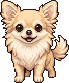
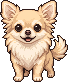
새 도트 강아지 다섯 더(슈나우저·프렌치불독·셸티·베들링턴·말티푸) + 초록 바탕 떼기 고침(투명 직접·갇힌 바탕), 먼저 다섯 다시 떼기
Claude-Session: https://claude.ai/code/session_01D364GF868k3HTded8WiX4b

diff --git a/walk-stars.js b/walk-stars.js
@@ -36,11 +36,16 @@
     jindo: { line: [[9, 59], [8, 32], [3, 6], [11, 1], [23, 14], [37, 14], [50, 1], [56, 1], [57, 18], [52, 32], [54, 53], [59, 59]], face: [[20, 31.5], [40, 31.5], [30.4, 43]] },
     knit: { close: true, line: [[25, 70], [20, 60], [7, 56], [4, 64], [0, 61], [0, 47], [5, 37], [0, 33], [13, 4], [19, 0], [26, 4], [36, 33]], face: [[11, 47], [20.5, 50], [14, 52]] },
     // 11/27 새 견종 — _dev/constellation-points.py
-    spitz: { line: [[2,47],[0,35],[5,19],[8,13],[8,5],[14,0],[24,9],[32,9],[42,0],[46,2],[52,27],[52,47]], face: [[19.8,25.6],[36.3,25.6],[27.5,33]] },
-    cocker: { line: [[34,65],[31,57],[33,45],[40,36],[46,16],[68,0],[83,0],[102,13],[111,36],[118,45],[120,57],[117,65]], face: [[64.2,23.9],[86.9,23.9],[75.3,32]] },
-    chihuahua_long: { line: [[7,49],[6,33],[0,14],[1,2],[10,1],[23,9],[35,9],[51,0],[57,2],[57,21],[49,34],[49,49]], face: [[19.1,27.5],[38,27.5],[28.3,32.7]] },
+    spitz: { line: [[1,47],[1,25],[7,13],[9,2],[13,0],[23,9],[31,9],[41,0],[45,2],[49,21],[52,24],[52,47]], face: [[18.8,25.6],[35.3,25.6],[27,33]] },
+    cocker: { line: [[34,65],[33,45],[40,36],[46,16],[60,4],[68,0],[83,0],[102,13],[111,36],[118,45],[120,57],[117,65]], face: [[64.2,23.9],[86.9,23.9],[75.3,32]] },
+    chihuahua_long: { line: [[7,49],[6,33],[0,14],[1,2],[7,0],[22,9],[34,9],[50,0],[56,2],[54,28],[49,34],[49,49]], face: [[18.1,27.5],[37,27.5],[27.5,32.7]] },
     bichon: { line: [[14,51],[16,45],[1,36],[0,28],[14,8],[26,0],[42,1],[63,22],[66,34],[62,39],[52,39],[51,51]], face: [[24.2,27.4],[41.9,27.4],[33,33]] },
-    golden: { line: [[45,55],[49,41],[39,24],[40,19],[53,4],[65,0],[82,0],[94,4],[108,21],[106,28],[98,41],[102,55]], face: [[63.2,19.6],[83.8,19.6],[73,30]] }
+    golden: { line: [[45,55],[49,41],[39,24],[40,19],[53,4],[65,0],[82,0],[94,4],[108,21],[106,28],[98,41],[102,55]], face: [[63.2,19.6],[83.8,19.6],[73,30]] },
+    schnauzer: { line: [[11,45],[13,39],[0,9],[13,0],[36,4],[44,0],[57,9],[50,24],[45,27],[47,34],[44,39],[49,45]], face: [[19.1,20.1],[37.8,20.1],[28.5,28]] },
+    frenchie: { line: [[5,49],[7,27],[2,22],[0,5],[7,0],[17,13],[31,13],[41,0],[47,3],[46,22],[41,27],[43,49]], face: [[13,27.5],[35,27.5],[24.5,31.5]] },
+    sheltie: { line: [[39,57],[40,36],[49,21],[46,4],[60,0],[73,8],[87,0],[98,4],[96,21],[104,36],[107,46],[106,57]], face: [[64.7,26.9],[80.2,26.8],[72.5,42.3]] },
+    bedlington: { line: [[27,69],[16,61],[22,48],[16,34],[29,19],[30,9],[42,0],[64,9],[77,32],[72,52],[78,61],[67,69]], face: [[36.4,30.6],[57.6,30.6],[45.4,50.5]] },
+    maltipoo: { line: [[13,45],[14,36],[8,39],[0,30],[6,16],[19,3],[33,0],[43,3],[56,16],[62,30],[50,35],[49,45]], face: [[22.7,24.4],[39.4,24.4],[31,32.1]] }
   };
   var TOD = [
     { name: '아침', c: [255, 226, 150], from: 5, to: 11 }, { name: '낮', c: [255, 255, 255], from: 11, to: 17 },
@@ -95,7 +100,7 @@
       full: n >= GOAL, milky: n >= MILKY, allDays: n >= dim, moon: Math.min(1, n / dim), dayCapped: false };
   }
   // ── 1년 하늘 + 공유 링크 글자 ──
-  var DOG_IDS = ['pom', 'poodle', 'maltese', 'chihuahua', 'dachs', 'jindo', 'shiba', 'knit', 'spitz', 'cocker', 'chihuahua_long', 'bichon', 'golden'];   // 링크에 번호로 실린다 — 순서 바꾸지 말 것(새 것은 뒤에)
+  var DOG_IDS = ['pom', 'poodle', 'maltese', 'chihuahua', 'dachs', 'jindo', 'shiba', 'knit', 'spitz', 'cocker', 'chihuahua_long', 'bichon', 'golden', 'schnauzer', 'frenchie', 'sheltie', 'bedlington', 'maltipoo'];   // 링크에 번호로 실린다 — 순서 바꾸지 말 것(새 것은 뒤에)
   var SIZE_MIN = [10, 22, 37, 60], TOD_H = [8, 13, 18, 21];   // 크기 4단계·시간대 4가지 → 그리기용 분·시
   function sizeIdx(min) { return min < 15 ? 0 : min < 30 ? 1 : min < 45 ? 2 : 3; }
   function todIdx(h) { var t = todOf(h); return TOD.indexOf(t); }

diff --git a/azit-room.js b/azit-room.js
@@ -28,11 +28,17 @@
     { id: 'cocker',         breed: '코카스파니엘', fur: '#d9a868', sizes: 'm' },
     { id: 'chihuahua_long', breed: '장모 치와와',  fur: '#ecd3a8', sizes: 's' },
     { id: 'bichon',         breed: '비숑',         fur: '#f3f0ea', sizes: 's' },
-    { id: 'golden',         breed: '골든 리트리버', fur: '#e2b45c', sizes: 'l' }
+    { id: 'golden',         breed: '골든 리트리버', fur: '#e2b45c', sizes: 'l' },
+    { id: 'schnauzer',      breed: '슈나우저',     fur: '#8a8a8c', sizes: 'sm' },
+    { id: 'frenchie',       breed: '프렌치불독',   fur: '#e3c497', sizes: 'sm' },
+    { id: 'sheltie',        breed: '셔틀랜드 쉽독', fur: '#c8762e', sizes: 'm' },
+    { id: 'bedlington',     breed: '베들링턴 테리어', fur: '#d4dbe2', sizes: 'm' },
+    { id: 'maltipoo',       breed: '말티푸',       fur: '#f2ece0', sizes: 's' }
   ];
   // 프로필 견종 글자 → 도트 강아지(처음 한 번 — 아지트에서 언제든 바꿀 수 있다). 위에서부터 먼저 맞는 것
   var BREED_RULES = [
-    [/말티푸|maltipoo/i, 'poodle'], [/포메|pomeranian/i, 'pom'], [/푸들|poodle/i, 'poodle'],
+    [/말티푸|maltipoo/i, 'maltipoo'], [/슈나우저|schnauzer/i, 'schnauzer'], [/프렌치|프불|french|불독|bulldog/i, 'frenchie'],
+    [/셸티|쉘티|셔틀랜드|sheltie|shetland|콜리|collie/i, 'sheltie'], [/베들링턴|bedlington/i, 'bedlington'], [/포메|pomeranian/i, 'pom'], [/푸들|poodle/i, 'poodle'],
     [/비숑|bichon/i, 'bichon'], [/스피츠|spitz|사모예드|samoyed/i, 'spitz'], [/코카|cocker|스패?니엘|spaniel/i, 'cocker'],
     [/골든|golden|리트리버|retriever|래브라도|labrador/i, 'golden'],
     [/(장모|롱코트|long).*(치와와|chihuahua)|(치와와|chihuahua).*(장모|롱코트|long)/i, 'chihuahua_long'],
@@ -600,7 +606,7 @@
     guessDog: guessDog, dogFromBreed: dogFromBreed, myDog: myDog,
     loadState: loadState, saveState: saveState, unlockedItems: unlockedItems, hasItem: hasItem, isLive: isLive, placedItems: placedItems, accOn: accOn,
     snapshot: snapshot, mySnapshot: mySnapshot, parseRoom: parseRoom, todayKey: todayKey,
-    dogSrc: function (id) { return 'icons/dot-dogs/' + id + '.webp?v=5'; },
-    dogPxSrc: function (id) { return 'icons/dot-dogs/px/' + id + '.png?v=5'; }   // 원래 점 격자 그대로(점 하나 = 한 픽셀) — _dev/dot-dog-native.py
+    dogSrc: function (id) { return 'icons/dot-dogs/' + id + '.webp?v=6'; },
+    dogPxSrc: function (id) { return 'icons/dot-dogs/px/' + id + '.png?v=6'; }   // 원래 점 격자 그대로(점 하나 = 한 픽셀) — _dev/dot-dog-native.py
   };
 })();

diff --git a/azit.html b/azit.html
@@ -471,12 +471,12 @@
 <script src="spots-data.js"></script>
 <script src="reward-rules.js?v=15"></script>
 <script src="dex-card.js?v=6"></script>
-<script src="azit-room.js?v=24"></script>
+<script src="azit-room.js?v=25"></script>
 <script src="photo-dot.js?v=2"></script>
 <script src="friends-cloud.js?v=1"></script>
 <script src="device.js?v=1"></script>
 <script src="save-image.js?v=4"></script>
-<script src="walk-stars.js?v=7"></script>
+<script src="walk-stars.js?v=8"></script>
 <script>
 (function () {
   'use strict';
@@ -877,7 +877,7 @@
     long: { stride: [3.4, 4.6], bob: [1.0, 1.8], tilt: [5.5, 5.5] },    // 닥스훈트 — 짧은 다리로 낮게 뒤뚱
     big: { stride: [5.8, 7.6], bob: [1.4, 2.5], tilt: [2.6, 3] }        // 진돗개·시바 — 느긋하게
   };
-  var BREED_GAIT = { dachs: 'long', jindo: 'big', shiba: 'big', golden: 'big', cocker: 'big' };
+  var BREED_GAIT = { dachs: 'long', jindo: 'big', shiba: 'big', golden: 'big', cocker: 'big', sheltie: 'big', bedlington: 'big' };
   var IDLE_LEN = { tilt: 1.25 };   // 갸웃 길이
   var RM = !!(window.matchMedia && window.matchMedia('(prefers-reduced-motion: reduce)').matches);
   function lerp(a, b, k) { return a + (b - a) * k; }
@@ -2101,7 +2101,8 @@
   // 얼굴이 아래쪽. 워킹패스 사진 강아지는 머리 자리(headOf)에서 정수리를 재고 턱은 키의 32% 아래로 어림
   var RIDE_FACE = { chihuahua: [0.52, 0.14, 0.38], dachs: [0.5, 0.05, 0.55], jindo: [0.5, 0.09, 0.29], maltese: [0.56, 0.06, 0.46],
     pom: [0.44, 0.04, 0.42], poodle: [0.52, 0.04, 0.55], shiba: [0.47, 0.12, 0.43], knit: [0.43, 0.52, 0.82],
-    spitz: [0.39, 0.11, 0.5], cocker: [0.62, 0.01, 0.35], chihuahua_long: [0.41, 0.11, 0.49], bichon: [0.49, 0.02, 0.57], golden: [0.62, 0.01, 0.34] };   // 11/27 새 견종 — 별자리 눈·코 자리로 잰 값
+    spitz: [0.39, 0.11, 0.5], cocker: [0.62, 0.01, 0.35], chihuahua_long: [0.41, 0.11, 0.49], bichon: [0.49, 0.02, 0.57], golden: [0.62, 0.01, 0.34],
+    schnauzer: [0.49, 0.06, 0.52], frenchie: [0.49, 0.16, 0.57], sheltie: [0.62, 0.03, 0.32], bedlington: [0.55, 0.01, 0.37], maltipoo: [0.48, 0.02, 0.51] };   // 11/27 새 견종 — 별자리 눈·코 자리로 잰 값
   function seatOf(it) {
     var st = SEATS[it.spr], rd = RIDES[it.spr], im = pic(it.spr), p = posOf(cur, it);
     if ((!st && !rd) || !im || it.decal || p.wall || p.shelf != null) return null;

diff --git a/dex.html b/dex.html
@@ -144,7 +144,7 @@
 <!-- 화면 QR에 싣는 내 아지트 방 모습(2026-11-23 개방명록 2단계) — 산책 기록으로 생긴 소품을 세려고 reward-rules.js(앞에 spots-data.js)까지 -->
 <script src="spots-data.js"></script>
 <script src="reward-rules.js?v=15"></script>
-<script src="azit-room.js?v=24"></script>
+<script src="azit-room.js?v=25"></script>
 <!-- 사용 통계(2026-11-23 개방명록 1단계): 도감에 넣은 횟수를 QR 종류(화면·키링·지난 캡처)와 처음인지만으로 센다 — 강아지 이름·번호는 안 보냄 -->
 <script src="site-config.js?v=11"></script>
 <script src="inapp.js?v=5"></script>

diff --git a/night.html b/night.html
@@ -118,9 +118,9 @@
     꾸준함 도장판·응가 달력은 <a href="walk-history.html">숫자 기록</a>에 있어요.</p>
 </main>
 <script src="reward-rules.js?v=15"></script>
-<script src="azit-room.js?v=24"></script>
+<script src="azit-room.js?v=25"></script>
 <script src="save-image.js?v=4"></script>
-<script src="walk-stars.js?v=7"></script>
+<script src="walk-stars.js?v=8"></script>
 <script src="night-extras.js?v=2"></script>
 <script>
 (function () {

diff --git a/sky.html b/sky.html
@@ -106,8 +106,8 @@
 <script src="device.js?v=1"></script>
 <script src="spots-data.js"></script>
 <script src="reward-rules.js?v=15"></script>
-<script src="azit-room.js?v=24"></script>
-<script src="walk-stars.js?v=7"></script>
+<script src="azit-room.js?v=25"></script>
+<script src="walk-stars.js?v=8"></script>
 <script src="night-extras.js?v=2"></script>
 <script>
 // 데이터·글자(3D 모듈보다 먼저) — 결과는 window.SKY에

diff --git a/walk-end.html b/walk-end.html
@@ -246,7 +246,7 @@
 <script src="walk-photos.js?v=1"></script>
 <script src="spots-data.js"></script>
 <script src="reward-rules.js?v=15"></script>
-<script src="walk-stars.js?v=7"></script>
+<script src="walk-stars.js?v=8"></script>
 <script src="steady-stamp.js?v=5"></script>
 <script src="walk-screen.js?v=5"></script>
 <script src="mock-server.js?v=2"></script>

diff --git a/constellation-sian.html b/constellation-sian.html
@@ -114,7 +114,7 @@
 <script src="store.js?v=2"></script>
 <script src="site-config.js?v=12"></script>
 <script src="canvas-view.js?v=1"></script>
-<script src="azit-room.js?v=24"></script>
+<script src="azit-room.js?v=25"></script>
 <link rel="stylesheet" href="theme-black.css?v=3"><script src="theme.js?v=15"></script>
 </head>
 <body>

diff --git a/_dev/dot-dog-green.py b/_dev/dot-dog-green.py
@@ -1,4 +1,4 @@
-# 제미나이 초록 바탕(#CFE3CF 근처) 도트 강아지 → 흰 바탕으로 바꾼 뒤 dot-dog-cutout.py에 넘긴다 (2026-11-27)
+# 제미나이 초록 바탕(#CFE3CF 근처) 도트 강아지 → 바탕 투명·키 맞춘 WebP + 점 격자 PNG (2026-11-27)
 #
 # 왜: 새 견종은 흰 강아지가 바탕에 묻히지 않게 연한 초록 바탕으로 받는다(sian-ref/dot-dogs-new/PROMPTS.md).
 # 제미나이가 오른쪽 아래에 반짝이·"AI" 표시를 찍는다 — 이것도 바탕으로 지운다.
@@ -9,7 +9,7 @@
 #
 # 바탕 찾는 법: 가장자리 색(초록)과 가까운 칸을 가장자리에서 채우고, 남은 것 중 가장 큰 덩어리만 강아지로(구멍은 메움).
 # (처음엔 진한 외곽선을 벽으로 채웠는데 선이 끊긴 틈으로 흰 털 안까지 번졌다 — 11/27)
-import os, sys, shutil, subprocess, tempfile
+import os, sys, shutil, subprocess
 import numpy as np
 from PIL import Image
 from scipy import ndimage as ndi
@@ -37,14 +37,35 @@ def main():
     fl, fk = ndi.label(~bg, structure=np.ones((3, 3)))
     sizes = ndi.sum(np.ones_like(fl), fl, np.arange(1, fk + 1))
     dog = fl == (int(np.argmax(sizes)) + 1)
-    dog = ndi.binary_fill_holes(dog)
+    # 다리·꼬리 사이에 갇힌 바탕(11/27 프렌치불독·스피츠): 바탕색에 아주 가까운(거리 < 12) 덩어리 중 150칸 넘는 것은 바탕 — 흰 털의 초록빛 그림자는 거리 20쯤이라 남는다(24로 했다가 슈나우저·스피츠 털에 구멍).
+    # 그보다 작은 구멍만 메운다(눈 반짝임 등).  
+    tight = np.sqrt(((rgb - bgc) ** 2).sum(2)) < 12
+    tl, tk = ndi.label(tight & dog)
+    if tk:
+        ts = ndi.sum(np.ones_like(tl), tl, np.arange(1, tk + 1))
+        dog &= ~np.isin(tl, [i + 1 for i, v in enumerate(ts) if v > 150])
+    holes = ndi.binary_fill_holes(dog) & ~dog
+    hl, hk = ndi.label(holes)
+    if hk:
+        hs = ndi.sum(np.ones_like(hl), hl, np.arange(1, hk + 1))
+        dog |= np.isin(hl, [i + 1 for i, v in enumerate(hs) if v <= 150])
     bg = ~dog
-    out = rgb.copy().astype(np.uint8)
-    out[bg] = 255
-    tmp = os.path.join(tempfile.mkdtemp(), name + '.png')
-    Image.fromarray(out).save(tmp)
-    subprocess.run([sys.executable, os.path.join(ROOT, '_dev', 'dot-dog-cutout.py'), tmp, name], check=True)
-
+    # 바탕은 여기서 바로 투명으로(11/27 베들링턴 — 흰 털이 흰 바탕과 이어져 dot-dog-cutout.py가 못 지웠다).
+    # 자르기·키 맞추기·저장은 dot-dog-cutout.py와 같게(키 768px, 여백 16px) → dot-dog-native.py
+    a = np.where(bg, 0, 255).astype(np.uint8)
+    ys, xs = np.where(a > 0)
+    im = Image.fromarray(np.dstack([rgb.astype(np.uint8), a]), 'RGBA').crop((xs.min(), ys.min(), xs.max() + 1, ys.max() + 1))
+    H, PAD = 768, 16
+    w, h = im.size
+    s = H / h
+    nw = round(w * s)
+    sm = im.convert('RGBa').resize((nw, H), Image.BOX if s < 1 else Image.NEAREST).convert('RGBA')
+    out = Image.new('RGBA', (nw + PAD * 2, H + PAD * 2), (0, 0, 0, 0))
+    out.alpha_composite(sm, (PAD, PAD))
+    dst = os.path.join(ROOT, 'icons', 'dot-dogs', name + '.webp')
+    out.save(dst, 'WEBP', quality=92, method=6, alpha_quality=100)
+    print(f'{dst}: 강아지 {w}x{h} → x{s:.3f} → 그림 {out.size[0]}x{out.size[1]}, {os.path.getsize(dst) // 1024}KB')
+    subprocess.run([sys.executable, os.path.join(ROOT, '_dev', 'dot-dog-native.py'), name], check=True)
 
 if __name__ == '__main__':
     main()

diff --git a/_dev/constellation-points.py b/_dev/constellation-points.py
@@ -19,9 +19,11 @@ OUTLINE = 12
 HEAD = {"chihuahua": (0, 58), "pom": (0, 56), "maltese": (0, 50), "shiba": (0, 74),
         "poodle": (0, 46), "dachs": (0, 38), "jindo": (0, 60), "knit": None,
         # 11/27 새 견종(제미나이 초록 바탕 — _dev/dot-dog-green.py)
-        "spitz": (0, 48), "cocker": (0, 66), "chihuahua_long": (0, 50), "bichon": (0, 52), "golden": (0, 56)}
+        "spitz": (0, 48), "cocker": (0, 66), "chihuahua_long": (0, 50), "bichon": (0, 52), "golden": (0, 56),
+        "schnauzer": (0, 46), "frenchie": (0, 50), "sheltie": (0, 58), "bedlington": (0, 70), "maltipoo": (0, 46)}
 # 머리가 아닌 데를 더 지우는 칸 [x0, y0, x1, y1) — 푸들은 오른쪽 아래 꼬리 방울이 귀 옆에 붙어 있다
-CUT = {"poodle": [(53, 32, 99, 99)], "spitz": [(53, 30, 99, 99)], "bichon": [(52, 40, 99, 99)], "chihuahua_long": [(50, 34, 99, 99)]}
+CUT = {"poodle": [(53, 32, 99, 99)], "spitz": [(53, 30, 99, 99)], "bichon": [(52, 40, 99, 99)], "chihuahua_long": [(50, 34, 99, 99)],
+       "schnauzer": [(50, 38, 99, 99)], "frenchie": [(44, 48, 99, 99)], "maltipoo": [(50, 36, 99, 99)]}
 # 눈 둘(왼·오른)·코 — 그림 점 좌표(그림 전체 기준)
 FACE = {"chihuahua": [(20, 32.5), (42, 32.5), (30.5, 39)],
         "pom": [(25, 30), (44, 31.5), (34.5, 38.5)],
@@ -31,12 +33,17 @@ FACE = {"chihuahua": [(20, 32.5), (42, 32.5), (30.5, 39)],
         "dachs": [(18.3, 15.8), (34.2, 15.8), (26.3, 25.8)],
         "jindo": [(20, 31.5), (40, 31.5), (30.4, 43)],
         "knit": [(11, 47), (20.5, 50), (14, 52)],
-        "spitz": [(19.8, 25.6), (36.3, 25.6), (27.5, 33)],
+        "spitz": [(18.8, 25.6), (35.3, 25.6), (27, 33)],
         "cocker": [(64.2, 23.9), (86.9, 23.9), (75.3, 32)],
-        "chihuahua_long": [(19.1, 27.5), (38, 27.5), (28.3, 32.7)],
+        "chihuahua_long": [(18.1, 27.5), (37, 27.5), (27.5, 32.7)],
         "bichon": [(24.2, 27.4), (41.9, 27.4), (33, 33)],
-        "golden": [(63.2, 19.6), (83.8, 19.6), (73, 30)]}
-ORDER = ["chihuahua", "pom", "maltese", "shiba", "poodle", "dachs", "jindo", "knit", "spitz", "cocker", "chihuahua_long", "bichon", "golden"]
+        "golden": [(63.2, 19.6), (83.8, 19.6), (73, 30)],
+        "schnauzer": [(19.1, 20.1), (37.8, 20.1), (28.5, 28)],
+        "frenchie": [(13, 27.5), (35, 27.5), (24.5, 31.5)],
+        "sheltie": [(64.7, 26.9), (80.2, 26.8), (72.5, 42.3)],
+        "bedlington": [(36.4, 30.6), (57.6, 30.6), (45.4, 50.5)],
+        "maltipoo": [(22.7, 24.4), (39.4, 24.4), (31, 32.1)]}
+ORDER = ["chihuahua", "pom", "maltese", "shiba", "poodle", "dachs", "jindo", "knit", "spitz", "cocker", "chihuahua_long", "bichon", "golden", "schnauzer", "frenchie", "sheltie", "bedlington", "maltipoo"]
 
 
 def mask_of(name):

diff --git a/PROJECT_CONTEXT.md b/PROJECT_CONTEXT.md
@@ -4266,3 +4266,14 @@ Black Han Sans 굵게 뭉개짐 0곳. 실제 폰은 아직.
 - 확인(390폭): 견종 글자 → 새 강아지, 방에 앉은 모습·머리 리본(`sian-ref/dot-dogs-new/rooms-check.png`), 첫 만남 칩, 하늘, 화면 오류 없음. azit-room.js v23 · walk-stars.js v5.
 - 코카·골든은 점 격자가 다른 강아지의 절반 간격으로 읽혔다(121×158점) — 방에서는 같은 키로 그려서 보기엔 같음.
 - **배포**: 11/27 가르시아 "반영해 주고 배포해 줘" — main `901e3f9`(같은 날 밤하늘·별 규칙과 합침, azit-room.js v24 · walk-stars.js v7 — 밤하늘 로켓에도 새 강아지가 탐).
+
+## 새 도트 강아지 다섯 더 — 슈나우저·프렌치불독·셔틀랜드 쉽독·베들링턴 테리어·말티푸 (2026-11-27)
+
+- 가르시아 "추가해 줘 이것도"(다섯 장). 마지막 흰 강아지는 비숑과 다른 그림(처진 귀·크림)이라 **말티푸**로 넣음(다른 견종이면 이름만 바꾸면 됨).
+  베들링턴은 받은 그림 왼쪽 아래에 주황·흰 여우 꼬리, 오른쪽에 번진 얼룩이 있어 그 색을 지우고 넣음(원본은 `sian-ref/dot-dogs-new/src/bedlington.webp` 그대로).
+- `_dev/dot-dog-green.py` 고침: 바탕을 흰색으로 바꿔 cutout에 넘기던 것을 직접 투명으로(베들링턴처럼 옅은 털이 흰 바탕과 이어져 못 지웠음) +
+  다리·꼬리 사이에 갇힌 바탕(거리 < 12, 150칸 넘게)도 지움(24로 했다가 흰 털의 초록빛 그림자까지 지워 구멍). 먼저 넣은 다섯도 같은 방식으로 다시 떼어 냄(그림 ?v=6).
+  확인 그림 `sian-ref/dot-dogs-new/cutout-check-10.png`(분홍 바탕 — 구멍·초록 남김 없음).
+- 연결: `BREED_RULES` 말티푸 → maltipoo(예전엔 갈색 푸들), 슈나우저, 프렌치·프불·불독 → frenchie, 셸티·쉘티·셔틀랜드·콜리 → sheltie, 베들링턴. RIDE_FACE 다섯, 셸티·베들링턴 느긋한 걸음,
+  별자리 다섯(+ 다시 뗀 먼저 다섯도 다시 뽑음), 공유 링크 DOG_IDS 뒤에. azit-room.js v25 · walk-stars.js v8.
+- 확인(390폭): 견종 글자 → 새 강아지, 방에 앉은 모습, 화면 오류 없음. 개발 브랜치까지(배포는 가르시아 "배포" 때).
